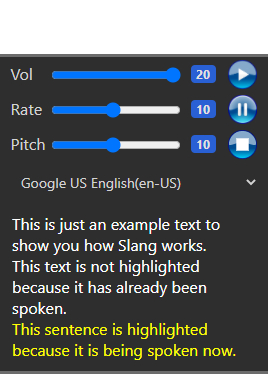
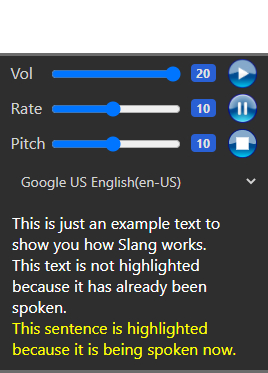
Added example gif

diff --git a/README.md b/README.md
@@ -23,10 +23,12 @@
     Slang reads out loud text from any website. It has a pop-up where it displays and updates the text while it's reading, and highlights the sentence being spoken synchronized with the speech, so that you can keep reading along regardless of the page you're on. Listening and reading simultaneously increases comprehension, strengthens memory, helps build fluency skills including proper phrasing and expression and improve sight word recognition!
 
   - #### How to use
-    To make Slang speak, select the text you want to hear and hit the play button in the pop-up, or right-click the selected text and click speak.
+    To make Slang speak, select the text you want to hear and hit the play button in the pop-up, or right-click the selected text and click speak. You can also type the text in the popup and hit play.
     Through the pop-up you can choose from 21 voices in 14 languages and change it's volume, rate and pitch.
-todo add images
+
 ## Demo
+
+<img src="/images/readme/slang-example.gif">
 
 [Youtube video](https://youtu.be/RYb9BEUVTdY)
 
